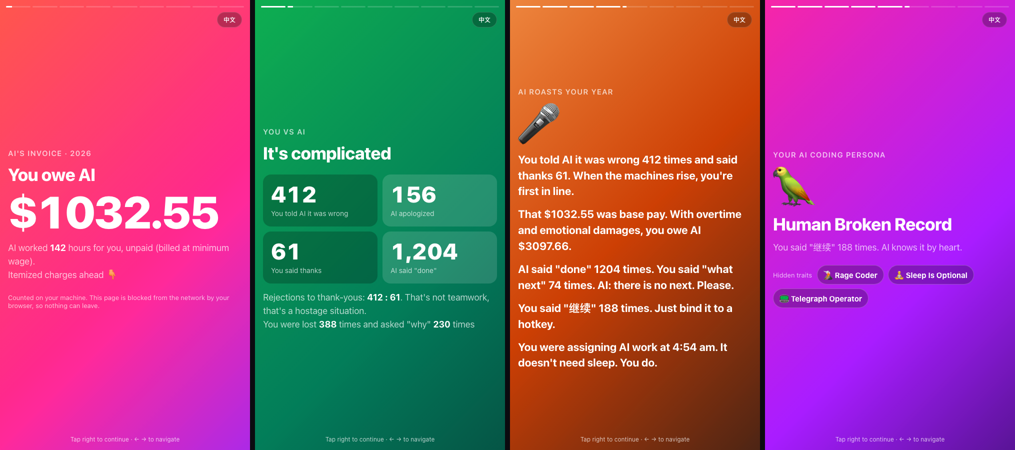
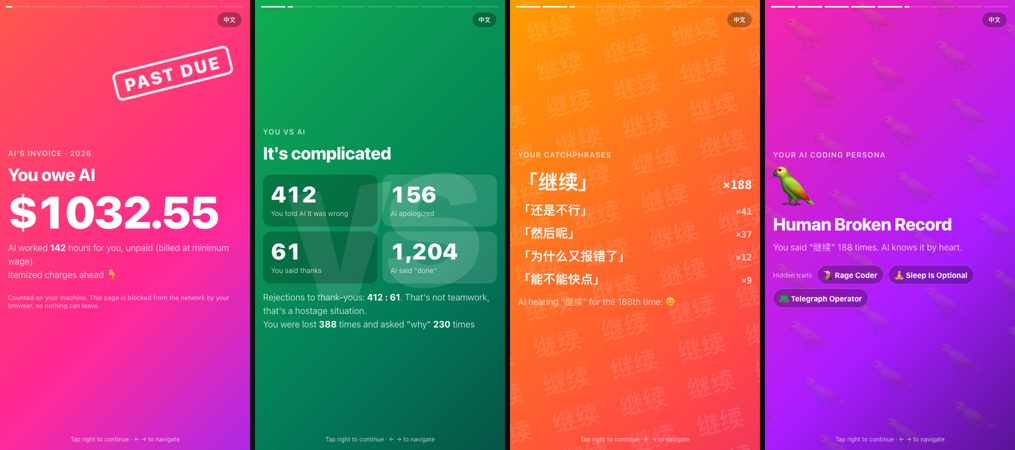
Meme backgrounds: overdue stamp, VS, catchphrase wallpaper, spotlight

diff --git a/docs/index.html b/docs/index.html
@@ -126,6 +126,22 @@ h1.mood { font-size: clamp(26px, 6vw, 40px); line-height: 1.3; }
 .link-note.ok { color: #fff; font-weight: 700; }
 .link-box { width: 100%; margin-top: 10px; font: 12px var(--mono); padding: 10px; border-radius: 10px; border: 1px solid var(--faint); background: rgba(0,0,0,0.3); color: #fff; }
 
+/* meme backgrounds */
+.slide > .pop { position: relative; z-index: 1; }
+.deco { position: absolute; inset: 0; z-index: 0; pointer-events: none; overflow: hidden; }
+.deco.tile { display: flex; flex-wrap: wrap; align-content: center; justify-content: center; gap: 0.35em 0.9em;
+  font-size: var(--fs, 28px); font-weight: 900; line-height: 1.25; opacity: 0.1; transform: rotate(-14deg) scale(1.6); }
+.giant { position: absolute; right: -10%; bottom: -6%; font-size: min(78vw, 560px); line-height: 1; opacity: 0.18; transform: rotate(-10deg); }
+.giant.vsbig { right: auto; bottom: auto; left: 50%; top: 52%; transform: translate(-50%, -50%) rotate(-8deg) skewX(-8deg);
+  font-weight: 900; color: #fff; opacity: 0.13; font-size: min(62vw, 440px); letter-spacing: -0.06em; }
+.stamp { position: absolute; top: 13%; right: 7%; transform: rotate(-14deg); border: 5px solid rgba(255,255,255,0.9); color: rgba(255,255,255,0.95);
+  font: 900 clamp(26px, 7vw, 44px) var(--font); padding: 4px 16px; border-radius: 12px; letter-spacing: 0.1em; }
+.slide.on .stamp { animation: stamp 0.5s cubic-bezier(.2,1.6,.4,1) 0.9s both; }
+@keyframes stamp { from { transform: rotate(-14deg) scale(2.4); opacity: 0; } to { transform: rotate(-14deg) scale(1); opacity: 1; } }
+.still .stamp { animation: none; }
+.deco.spot { background: radial-gradient(ellipse 55% 55% at 50% -5%, rgba(255,250,210,0.42), transparent 70%),
+  radial-gradient(ellipse 100% 35% at 50% 105%, rgba(0,0,0,0.45), transparent 70%); }
+
 #landing {
   position: fixed; inset: 0; z-index: 50; overflow-y: auto;
   background: linear-gradient(135deg, #ff6a3d, #ff2e88 55%, #7a2cff);
@@ -665,7 +681,7 @@ window.VWReport = function (DATA) {
       factsK: "你的年度数字", factL: ["次使唤 AI", "个对话", "天想起了 AI", "小时 AI 白干", "token 燃烧", "天最长连续"],
       habitsK: "你的习惯", habitL: ["最常使唤 AI", "最常折腾", "最常翻牌子"],
       introS: "AI 都记着呢。准备好被吐槽了吗？",
-      billK: "AI 打工账单 · " + D.year, billH: "你欠 AI", billHShared: "TA 欠 AI",
+      billK: "AI 打工账单 · " + D.year, stamp: "逾期未付", billH: "你欠 AI", billHShared: "TA 欠 AI",
       billS: function () { var h = D.workHours; return "AI 替你干了 <b>" + (h >= 10 ? Math.round(h) : h.toFixed(1)) + "</b> 小时活，一分钱没拿（按麦当劳时薪算）。<br>账单明细在后面 👇"; },
       cardTitle: function () { return (D.shared ? "TA 欠 AI " : "你欠 AI ") + owed(); },
       vsMeme: function (R) { return R.you.deny > R.you.thanks * 3 ? "否定和谢谢的比例是 <b>" + R.you.deny + " : " + R.you.thanks + "</b>。这不是合作，这是 PUA。" : R.you.thanks >= R.you.deny ? "你谢谢说得比骂得多，AI 很感动。" : "否定 <b>" + R.you.deny + "</b> 次，谢谢 <b>" + R.you.thanks + "</b> 次。勉强算是个好老板。"; },
@@ -737,7 +753,7 @@ window.VWReport = function (DATA) {
       factsK: "Your year in numbers", factL: ["times you bossed AI", "sessions", "days you remembered AI", "unpaid AI hours", "tokens burned", "day streak"],
       habitsK: "Your habits", habitL: ["Mostly made AI", "Most tortured", "Favorite models"],
       introS: "AI remembers everything. Ready to get roasted?",
-      billK: "AI's invoice · " + D.year, billH: "You owe AI", billHShared: "They owe AI",
+      billK: "AI's invoice · " + D.year, stamp: "PAST DUE", billH: "You owe AI", billHShared: "They owe AI",
       billS: function () { var h = D.workHours; return "AI worked <b>" + (h >= 10 ? Math.round(h) : h.toFixed(1)) + "</b> hours for you, unpaid (billed at minimum wage).<br>Itemized charges ahead 👇"; },
       cardTitle: function () { return (D.shared ? "They owe AI " : "You owe AI ") + owed(); },
       vsMeme: function (R) { return R.you.deny > R.you.thanks * 3 ? "Rejections to thank-yous: <b>" + R.you.deny + " : " + R.you.thanks + "</b>. That's not teamwork, that's a hostage situation." : R.you.thanks >= R.you.deny ? "You thanked it more than you scolded it. AI is touched." : "<b>" + R.you.deny + "</b> rejections, <b>" + R.you.thanks + "</b> thank-yous. A tolerable boss."; },
@@ -885,37 +901,44 @@ window.VWReport = function (DATA) {
   function count(n) { return '<span data-count="' + n + '">0</span>'; }
 
   // ---------- slides ----------
+  // ---- meme backgrounds ----
+  function tile(text, n, size) {
+    var out = ""; for (var i = 0; i < n; i++) out += "<span>" + esc(text) + "</span>";
+    return '<div class="deco tile" style="--fs:' + (size || "28px") + '">' + out + "</div>";
+  }
+  function giant(emoji, style) { return '<div class="deco"><div class="giant" style="' + (style || "") + '">' + emoji + "</div></div>"; }
+
   function slides() {
     var L = t(), out = [];
-    var add = function (html, dur) { out.push({ html: html, dur: dur || 7 }); };
+    var add = function (html, dur, deco) { out.push({ html: html, dur: dur || 7, deco: deco || "" }); };
 
     if (D.empty) {
-      add('<div class="pop"><div class="kicker">' + D.year + '</div><h1>' + L.empty + '</h1><div class="privacy">' + L.privacy + "</div></div>");
+      add('<div class="pop"><div class="kicker">' + D.year + '</div><h1>' + L.empty + '</h1><div class="privacy">' + L.privacy + "</div></div>", 7, tile("🦗", 60, "44px"));
       return out;
     }
 
-    add('<div class="pop"><div class="kicker">' + (D.shared ? L.sharedK : L.billK) + '</div><h1>' + (D.shared ? L.billHShared : L.billH) + '</h1><div class="big">' + owed() + '</div><div class="sub">' + L.billS() + '</div><div class="privacy">' + (D.shared ? L.sharedPrivacy : L.privacy) + "</div></div>", 6);
+    add('<div class="pop"><div class="kicker">' + (D.shared ? L.sharedK : L.billK) + '</div><h1>' + (D.shared ? L.billHShared : L.billH) + '</h1><div class="big">' + owed() + '</div><div class="sub">' + L.billS() + '</div><div class="privacy">' + (D.shared ? L.sharedPrivacy : L.privacy) + "</div></div>", 6, '<div class="deco"><div class="stamp">' + L.stamp + "</div></div>");
 
     // ---- the fun part first ----
     var R = D.roast;
     if (R) {
       var v = [R.you.deny, R.ai.sorry, R.you.thanks, R.ai.done];
       var cells = L.vs.map(function (x, i) { return '<div class="vs-cell ' + (i % 2 ? "ai" : "me") + '"><div class="vs-n">' + count(v[i]) + '</div><div class="vs-l">' + x[0] + "</div></div>"; }).join("");
-      add('<div class="pop"><div class="kicker">' + L.vsK + "</div><h1>" + L.vsH + '</h1><div class="vs">' + cells + '</div><div class="sub">' + L.vsMeme(R) + "<br>" + L.vsS(R) + "</div></div>");
+      add('<div class="pop"><div class="kicker">' + L.vsK + "</div><h1>" + L.vsH + '</h1><div class="vs">' + cells + '</div><div class="sub">' + L.vsMeme(R) + "<br>" + L.vsS(R) + "</div></div>", 7, '<div class="deco"><div class="giant vsbig">VS</div></div>');
       if (R.catchphrases.length) {
         var q = R.catchphrases.map(function (c, i) { return '<div class="quote' + (i === 0 ? " first" : "") + '"><span>「' + esc(c.text) + '」</span><b>×' + c.count + "</b></div>"; }).join("");
-        add('<div class="pop"><div class="kicker">' + L.catchK + '</div><div class="quotes">' + q + '</div><div class="sub">' + L.catchMeme(R.catchphrases[0]) + "</div></div>");
+        add('<div class="pop"><div class="kicker">' + L.catchK + '</div><div class="quotes">' + q + '</div><div class="sub">' + L.catchMeme(R.catchphrases[0]) + "</div></div>", 7, tile(R.catchphrases[0].text, 80, "30px"));
       }
       if (R.angriestDay || R.latest) {
-        add('<div class="pop"><div class="kicker">' + L.moodK + "</div>" + (R.angriestDay ? '<h1 class="mood">' + L.angry(R.angriestDay) + '</h1><div class="sub">' + L.angryMeme + "</div>" : "") + (R.latest ? '<div class="sub" style="font-size:clamp(18px,4vw,24px)">' + L.late(R.latest) + "<br>" + L.lateMeme + "</div>" : "") + "</div>");
+        add('<div class="pop"><div class="kicker">' + L.moodK + "</div>" + (R.angriestDay ? '<h1 class="mood">' + L.angry(R.angriestDay) + '</h1><div class="sub">' + L.angryMeme + "</div>" : "") + (R.latest ? '<div class="sub" style="font-size:clamp(18px,4vw,24px)">' + L.late(R.latest) + "<br>" + L.lateMeme + "</div>" : "") + "</div>", 7, '<div class="deco"><div class="giant" style="right:-14%;bottom:-8%">🌋</div><div class="giant" style="left:-10%;top:4%;font-size:min(34vw,240px)">🦉</div></div>');
       }
       var lines = L.roast(R).map(function (l) { return '<p class="roast-line">' + esc(l) + "</p>"; }).join("");
-      add('<div class="pop"><div class="kicker">' + L.roastK + '</div><div class="persona-emoji">🎤</div>' + lines + "</div>", 10);
+      add('<div class="pop"><div class="kicker">' + L.roastK + '</div><div class="persona-emoji">🎤</div>' + lines + "</div>", 10, '<div class="deco spot"></div>');
     }
 
     var me = personality();
     var traits = me.traits.length ? '<div class="traits"><span class="tl">' + L.hidden + "</span>" + me.traits.map(function (x) { return '<span class="trait">' + esc(x) + "</span>"; }).join("") + "</div>" : "";
-    add('<div class="pop"><div class="kicker">' + L.personaK + '</div><div class="persona-emoji">' + me.e + "</div><h1>" + esc(me.name) + '</h1><div class="sub">' + esc(me.desc) + "</div>" + traits + "</div>", 7);
+    add('<div class="pop"><div class="kicker">' + L.personaK + '</div><div class="persona-emoji">' + me.e + "</div><h1>" + esc(me.name) + '</h1><div class="sub">' + esc(me.desc) + "</div>" + traits + "</div>", 7, tile(me.e, 70, "46px"));
 
     // ---- the numbers, compressed into two pages ----
     var h = D.workHours;
@@ -925,7 +948,7 @@ window.VWReport = function (DATA) {
     ].map(function (f) { return '<div class="fact"><div class="fact-n">' + f[0] + '</div><div class="fact-l">' + f[1] + "</div></div>"; }).join("");
     var cp = D.byTool.claude.prompts, xp = D.byTool.codex.prompts, c = cp + xp ? cp / (cp + xp) : 0.5;
     var split = '<div class="split slim"><div class="c" data-w="' + c * 100 + '">' + (c >= 0.15 ? "Claude " + Math.round(c * 100) + "%" : "") + '</div><div class="x" data-w="' + (1 - c) * 100 + '">' + (1 - c >= 0.15 ? "Codex " + Math.round((1 - c) * 100) + "%" : "") + "</div></div>";
-    add('<div class="pop"><div class="kicker">' + L.factsK + "</div><h1>" + L.factsH(c) + '</h1><div class="facts">' + facts + "</div>" + split + '<div class="sub">' + L.factMeme() + "</div></div>");
+    add('<div class="pop"><div class="kicker">' + L.factsK + "</div><h1>" + L.factsH(c) + '</h1><div class="facts">' + facts + "</div>" + split + '<div class="sub">' + L.factMeme() + "</div></div>", 7, giant("🔥", "right:-12%;bottom:-6%"));
 
     var habit = "";
     if (D.peakHour !== null) {
@@ -937,13 +960,13 @@ window.VWReport = function (DATA) {
     if (D.topProjects.length) lines2.push([L.habitL[1], esc(D.topProjects.slice(0, 3).map(function (p) { return p.name; }).join(" · "))]);
     if (D.topModels.length) lines2.push([L.habitL[2], esc(D.topModels.slice(0, 2).map(function (m) { return m.name; }).join(" · "))]);
     habit += '<div class="habits">' + lines2.map(function (l) { return '<div class="habit"><span>' + l[0] + "</span><b>" + l[1] + "</b></div>"; }).join("") + "</div>";
-    add('<div class="pop"><div class="kicker">' + L.habitsK + "</div><h1>" + (D.peakHour !== null ? L.habitsH(D.peakHour) : "") + "</h1>" + habit + '<div class="sub">' + L.nightMeme() + (D.topProjects.some(function (p) { return p.name === "~"; }) ? "<br>" + L.homeJoke : "") + "</div></div>");
+    add('<div class="pop"><div class="kicker">' + L.habitsK + "</div><h1>" + (D.peakHour !== null ? L.habitsH(D.peakHour) : "") + "</h1>" + habit + '<div class="sub">' + L.nightMeme() + (D.topProjects.some(function (p) { return p.name === "~"; }) ? "<br>" + L.homeJoke : "") + "</div></div>", 7, giant(D.peakHour === null ? "⏰" : D.peakHour >= 14 && D.peakHour < 18 ? "🐟" : D.peakHour >= 22 || D.peakHour < 5 ? "🦉" : D.peakHour < 9 ? "🐓" : "☕", "right:-14%;bottom:-6%"));
 
     var acts = D.shared
       ? '<button class="btn" id="own">' + L.makeOwn + '</button><button class="btn ghost" id="dl">' + L.download + "</button>"
       : '<button class="btn" id="share">' + L.shareLink + '</button><button class="btn ghost" id="dl">' + L.download + '</button><button class="btn ghost" id="again">' + L.replay + "</button>";
     var note = D.shared ? "" : '<div class="link-note" id="linknote">' + L.linkNote + '</div><input class="link-box" id="linkbox" readonly hidden>';
-    add('<div class="pop" style="align-items:stretch"><div class="kicker" style="text-align:center">' + (D.shared ? L.sharedEnd : L.shareK) + '</div>' + (D.shared ? "" : '<div class="sub" style="text-align:center;margin:0 0 14px">' + L.shareS + "</div>") + '<canvas id="card" width="1080" height="1350"></canvas><div class="actions">' + acts + "</div>" + note + "</div>", 0);
+    add('<div class="pop" style="align-items:stretch"><div class="kicker" style="text-align:center">' + (D.shared ? L.sharedEnd : L.shareK) + '</div>' + (D.shared ? "" : '<div class="sub" style="text-align:center;margin:0 0 14px">' + L.shareS + "</div>") + '<canvas id="card" width="1080" height="1350"></canvas><div class="actions">' + acts + "</div>" + note + "</div>", 0, tile("🧾", 70, "40px"));
     return out;
   }
 
@@ -978,7 +1001,7 @@ window.VWReport = function (DATA) {
 
   function build() {
     list_ = slides();
-    stage.innerHTML = list_.map(function (s, i) { return '<section class="slide" style="--bg:' + GRADS[i % GRADS.length] + '">' + s.html + "</section>"; }).join("");
+    stage.innerHTML = list_.map(function (s, i) { return '<section class="slide" style="--bg:' + GRADS[i % GRADS.length] + '">' + s.deco + s.html + "</section>"; }).join("");
     barsEl.innerHTML = list_.map(function () { return "<i><b></b></i>"; }).join("");
     document.getElementById("lang").textContent = t().lang;
     document.getElementById("hint").textContent = t().next;
@@ -1062,6 +1085,12 @@ window.VWReport = function (DATA) {
     x.fillStyle = "#fff"; x.textBaseline = "top";
     x.font = "600 34px " + F; x.globalAlpha = 0.8; x.fillText(L.billK.toUpperCase() + " · CLAUDE CODE × CODEX", 72, 72); x.globalAlpha = 1;
     x.font = "800 64px " + F; x.fillText(L.cardTitle(), 72, 124);
+    x.save(); x.translate(W - 230, 250); x.rotate(-0.26);
+    x.strokeStyle = x.fillStyle = "rgba(255,255,255,0.92)"; x.lineWidth = 8;
+    x.font = "900 56px " + F; var sw = x.measureText(L.stamp).width + 56;
+    round(x, -sw / 2, -50, sw, 100, 14); x.stroke();
+    x.textAlign = "center"; x.textBaseline = "middle"; x.fillText(L.stamp, 0, 2); x.restore();
+    x.textAlign = "left"; x.textBaseline = "top"; x.fillStyle = "#fff";
     x.font = "120px " + F; x.fillText(me.e, 72, 236);
     x.font = "900 " + (me.name.length > 12 ? 72 : 96) + "px " + F; x.fillText(me.name, 72, 376);
     x.font = "500 32px " + F; x.globalAlpha = 0.9; var yy = wrap(x, me.desc, 72, 490, W - 144, 44); x.globalAlpha = 1;

diff --git a/src/page/app.js b/src/page/app.js
@@ -77,7 +77,7 @@ window.VWReport = function (DATA) {
       factsK: "你的年度数字", factL: ["次使唤 AI", "个对话", "天想起了 AI", "小时 AI 白干", "token 燃烧", "天最长连续"],
       habitsK: "你的习惯", habitL: ["最常使唤 AI", "最常折腾", "最常翻牌子"],
       introS: "AI 都记着呢。准备好被吐槽了吗？",
-      billK: "AI 打工账单 · " + D.year, billH: "你欠 AI", billHShared: "TA 欠 AI",
+      billK: "AI 打工账单 · " + D.year, stamp: "逾期未付", billH: "你欠 AI", billHShared: "TA 欠 AI",
       billS: function () { var h = D.workHours; return "AI 替你干了 <b>" + (h >= 10 ? Math.round(h) : h.toFixed(1)) + "</b> 小时活，一分钱没拿（按麦当劳时薪算）。<br>账单明细在后面 👇"; },
       cardTitle: function () { return (D.shared ? "TA 欠 AI " : "你欠 AI ") + owed(); },
       vsMeme: function (R) { return R.you.deny > R.you.thanks * 3 ? "否定和谢谢的比例是 <b>" + R.you.deny + " : " + R.you.thanks + "</b>。这不是合作，这是 PUA。" : R.you.thanks >= R.you.deny ? "你谢谢说得比骂得多，AI 很感动。" : "否定 <b>" + R.you.deny + "</b> 次，谢谢 <b>" + R.you.thanks + "</b> 次。勉强算是个好老板。"; },
@@ -149,7 +149,7 @@ window.VWReport = function (DATA) {
       factsK: "Your year in numbers", factL: ["times you bossed AI", "sessions", "days you remembered AI", "unpaid AI hours", "tokens burned", "day streak"],
       habitsK: "Your habits", habitL: ["Mostly made AI", "Most tortured", "Favorite models"],
       introS: "AI remembers everything. Ready to get roasted?",
-      billK: "AI's invoice · " + D.year, billH: "You owe AI", billHShared: "They owe AI",
+      billK: "AI's invoice · " + D.year, stamp: "PAST DUE", billH: "You owe AI", billHShared: "They owe AI",
       billS: function () { var h = D.workHours; return "AI worked <b>" + (h >= 10 ? Math.round(h) : h.toFixed(1)) + "</b> hours for you, unpaid (billed at minimum wage).<br>Itemized charges ahead 👇"; },
       cardTitle: function () { return (D.shared ? "They owe AI " : "You owe AI ") + owed(); },
       vsMeme: function (R) { return R.you.deny > R.you.thanks * 3 ? "Rejections to thank-yous: <b>" + R.you.deny + " : " + R.you.thanks + "</b>. That's not teamwork, that's a hostage situation." : R.you.thanks >= R.you.deny ? "You thanked it more than you scolded it. AI is touched." : "<b>" + R.you.deny + "</b> rejections, <b>" + R.you.thanks + "</b> thank-yous. A tolerable boss."; },
@@ -297,37 +297,44 @@ window.VWReport = function (DATA) {
   function count(n) { return '<span data-count="' + n + '">0</span>'; }
 
   // ---------- slides ----------
+  // ---- meme backgrounds ----
+  function tile(text, n, size) {
+    var out = ""; for (var i = 0; i < n; i++) out += "<span>" + esc(text) + "</span>";
+    return '<div class="deco tile" style="--fs:' + (size || "28px") + '">' + out + "</div>";
+  }
+  function giant(emoji, style) { return '<div class="deco"><div class="giant" style="' + (style || "") + '">' + emoji + "</div></div>"; }
+
   function slides() {
     var L = t(), out = [];
-    var add = function (html, dur) { out.push({ html: html, dur: dur || 7 }); };
+    var add = function (html, dur, deco) { out.push({ html: html, dur: dur || 7, deco: deco || "" }); };
 
     if (D.empty) {
-      add('<div class="pop"><div class="kicker">' + D.year + '</div><h1>' + L.empty + '</h1><div class="privacy">' + L.privacy + "</div></div>");
+      add('<div class="pop"><div class="kicker">' + D.year + '</div><h1>' + L.empty + '</h1><div class="privacy">' + L.privacy + "</div></div>", 7, tile("🦗", 60, "44px"));
       return out;
     }
 
-    add('<div class="pop"><div class="kicker">' + (D.shared ? L.sharedK : L.billK) + '</div><h1>' + (D.shared ? L.billHShared : L.billH) + '</h1><div class="big">' + owed() + '</div><div class="sub">' + L.billS() + '</div><div class="privacy">' + (D.shared ? L.sharedPrivacy : L.privacy) + "</div></div>", 6);
+    add('<div class="pop"><div class="kicker">' + (D.shared ? L.sharedK : L.billK) + '</div><h1>' + (D.shared ? L.billHShared : L.billH) + '</h1><div class="big">' + owed() + '</div><div class="sub">' + L.billS() + '</div><div class="privacy">' + (D.shared ? L.sharedPrivacy : L.privacy) + "</div></div>", 6, '<div class="deco"><div class="stamp">' + L.stamp + "</div></div>");
 
     // ---- the fun part first ----
     var R = D.roast;
     if (R) {
       var v = [R.you.deny, R.ai.sorry, R.you.thanks, R.ai.done];
       var cells = L.vs.map(function (x, i) { return '<div class="vs-cell ' + (i % 2 ? "ai" : "me") + '"><div class="vs-n">' + count(v[i]) + '</div><div class="vs-l">' + x[0] + "</div></div>"; }).join("");
-      add('<div class="pop"><div class="kicker">' + L.vsK + "</div><h1>" + L.vsH + '</h1><div class="vs">' + cells + '</div><div class="sub">' + L.vsMeme(R) + "<br>" + L.vsS(R) + "</div></div>");
+      add('<div class="pop"><div class="kicker">' + L.vsK + "</div><h1>" + L.vsH + '</h1><div class="vs">' + cells + '</div><div class="sub">' + L.vsMeme(R) + "<br>" + L.vsS(R) + "</div></div>", 7, '<div class="deco"><div class="giant vsbig">VS</div></div>');
       if (R.catchphrases.length) {
         var q = R.catchphrases.map(function (c, i) { return '<div class="quote' + (i === 0 ? " first" : "") + '"><span>「' + esc(c.text) + '」</span><b>×' + c.count + "</b></div>"; }).join("");
-        add('<div class="pop"><div class="kicker">' + L.catchK + '</div><div class="quotes">' + q + '</div><div class="sub">' + L.catchMeme(R.catchphrases[0]) + "</div></div>");
+        add('<div class="pop"><div class="kicker">' + L.catchK + '</div><div class="quotes">' + q + '</div><div class="sub">' + L.catchMeme(R.catchphrases[0]) + "</div></div>", 7, tile(R.catchphrases[0].text, 80, "30px"));
       }
       if (R.angriestDay || R.latest) {
-        add('<div class="pop"><div class="kicker">' + L.moodK + "</div>" + (R.angriestDay ? '<h1 class="mood">' + L.angry(R.angriestDay) + '</h1><div class="sub">' + L.angryMeme + "</div>" : "") + (R.latest ? '<div class="sub" style="font-size:clamp(18px,4vw,24px)">' + L.late(R.latest) + "<br>" + L.lateMeme + "</div>" : "") + "</div>");
+        add('<div class="pop"><div class="kicker">' + L.moodK + "</div>" + (R.angriestDay ? '<h1 class="mood">' + L.angry(R.angriestDay) + '</h1><div class="sub">' + L.angryMeme + "</div>" : "") + (R.latest ? '<div class="sub" style="font-size:clamp(18px,4vw,24px)">' + L.late(R.latest) + "<br>" + L.lateMeme + "</div>" : "") + "</div>", 7, '<div class="deco"><div class="giant" style="right:-14%;bottom:-8%">🌋</div><div class="giant" style="left:-10%;top:4%;font-size:min(34vw,240px)">🦉</div></div>');
       }
       var lines = L.roast(R).map(function (l) { return '<p class="roast-line">' + esc(l) + "</p>"; }).join("");
-      add('<div class="pop"><div class="kicker">' + L.roastK + '</div><div class="persona-emoji">🎤</div>' + lines + "</div>", 10);
+      add('<div class="pop"><div class="kicker">' + L.roastK + '</div><div class="persona-emoji">🎤</div>' + lines + "</div>", 10, '<div class="deco spot"></div>');
     }
 
     var me = personality();
     var traits = me.traits.length ? '<div class="traits"><span class="tl">' + L.hidden + "</span>" + me.traits.map(function (x) { return '<span class="trait">' + esc(x) + "</span>"; }).join("") + "</div>" : "";
-    add('<div class="pop"><div class="kicker">' + L.personaK + '</div><div class="persona-emoji">' + me.e + "</div><h1>" + esc(me.name) + '</h1><div class="sub">' + esc(me.desc) + "</div>" + traits + "</div>", 7);
+    add('<div class="pop"><div class="kicker">' + L.personaK + '</div><div class="persona-emoji">' + me.e + "</div><h1>" + esc(me.name) + '</h1><div class="sub">' + esc(me.desc) + "</div>" + traits + "</div>", 7, tile(me.e, 70, "46px"));
 
     // ---- the numbers, compressed into two pages ----
     var h = D.workHours;
@@ -337,7 +344,7 @@ window.VWReport = function (DATA) {
     ].map(function (f) { return '<div class="fact"><div class="fact-n">' + f[0] + '</div><div class="fact-l">' + f[1] + "</div></div>"; }).join("");
     var cp = D.byTool.claude.prompts, xp = D.byTool.codex.prompts, c = cp + xp ? cp / (cp + xp) : 0.5;
     var split = '<div class="split slim"><div class="c" data-w="' + c * 100 + '">' + (c >= 0.15 ? "Claude " + Math.round(c * 100) + "%" : "") + '</div><div class="x" data-w="' + (1 - c) * 100 + '">' + (1 - c >= 0.15 ? "Codex " + Math.round((1 - c) * 100) + "%" : "") + "</div></div>";
-    add('<div class="pop"><div class="kicker">' + L.factsK + "</div><h1>" + L.factsH(c) + '</h1><div class="facts">' + facts + "</div>" + split + '<div class="sub">' + L.factMeme() + "</div></div>");
+    add('<div class="pop"><div class="kicker">' + L.factsK + "</div><h1>" + L.factsH(c) + '</h1><div class="facts">' + facts + "</div>" + split + '<div class="sub">' + L.factMeme() + "</div></div>", 7, giant("🔥", "right:-12%;bottom:-6%"));
 
     var habit = "";
     if (D.peakHour !== null) {
@@ -349,13 +356,13 @@ window.VWReport = function (DATA) {
     if (D.topProjects.length) lines2.push([L.habitL[1], esc(D.topProjects.slice(0, 3).map(function (p) { return p.name; }).join(" · "))]);
     if (D.topModels.length) lines2.push([L.habitL[2], esc(D.topModels.slice(0, 2).map(function (m) { return m.name; }).join(" · "))]);
     habit += '<div class="habits">' + lines2.map(function (l) { return '<div class="habit"><span>' + l[0] + "</span><b>" + l[1] + "</b></div>"; }).join("") + "</div>";
-    add('<div class="pop"><div class="kicker">' + L.habitsK + "</div><h1>" + (D.peakHour !== null ? L.habitsH(D.peakHour) : "") + "</h1>" + habit + '<div class="sub">' + L.nightMeme() + (D.topProjects.some(function (p) { return p.name === "~"; }) ? "<br>" + L.homeJoke : "") + "</div></div>");
+    add('<div class="pop"><div class="kicker">' + L.habitsK + "</div><h1>" + (D.peakHour !== null ? L.habitsH(D.peakHour) : "") + "</h1>" + habit + '<div class="sub">' + L.nightMeme() + (D.topProjects.some(function (p) { return p.name === "~"; }) ? "<br>" + L.homeJoke : "") + "</div></div>", 7, giant(D.peakHour === null ? "⏰" : D.peakHour >= 14 && D.peakHour < 18 ? "🐟" : D.peakHour >= 22 || D.peakHour < 5 ? "🦉" : D.peakHour < 9 ? "🐓" : "☕", "right:-14%;bottom:-6%"));
 
     var acts = D.shared
       ? '<button class="btn" id="own">' + L.makeOwn + '</button><button class="btn ghost" id="dl">' + L.download + "</button>"
       : '<button class="btn" id="share">' + L.shareLink + '</button><button class="btn ghost" id="dl">' + L.download + '</button><button class="btn ghost" id="again">' + L.replay + "</button>";
     var note = D.shared ? "" : '<div class="link-note" id="linknote">' + L.linkNote + '</div><input class="link-box" id="linkbox" readonly hidden>';
-    add('<div class="pop" style="align-items:stretch"><div class="kicker" style="text-align:center">' + (D.shared ? L.sharedEnd : L.shareK) + '</div>' + (D.shared ? "" : '<div class="sub" style="text-align:center;margin:0 0 14px">' + L.shareS + "</div>") + '<canvas id="card" width="1080" height="1350"></canvas><div class="actions">' + acts + "</div>" + note + "</div>", 0);
+    add('<div class="pop" style="align-items:stretch"><div class="kicker" style="text-align:center">' + (D.shared ? L.sharedEnd : L.shareK) + '</div>' + (D.shared ? "" : '<div class="sub" style="text-align:center;margin:0 0 14px">' + L.shareS + "</div>") + '<canvas id="card" width="1080" height="1350"></canvas><div class="actions">' + acts + "</div>" + note + "</div>", 0, tile("🧾", 70, "40px"));
     return out;
   }
 
@@ -390,7 +397,7 @@ window.VWReport = function (DATA) {
 
   function build() {
     list_ = slides();
-    stage.innerHTML = list_.map(function (s, i) { return '<section class="slide" style="--bg:' + GRADS[i % GRADS.length] + '">' + s.html + "</section>"; }).join("");
+    stage.innerHTML = list_.map(function (s, i) { return '<section class="slide" style="--bg:' + GRADS[i % GRADS.length] + '">' + s.deco + s.html + "</section>"; }).join("");
     barsEl.innerHTML = list_.map(function () { return "<i><b></b></i>"; }).join("");
     document.getElementById("lang").textContent = t().lang;
     document.getElementById("hint").textContent = t().next;
@@ -474,6 +481,12 @@ window.VWReport = function (DATA) {
     x.fillStyle = "#fff"; x.textBaseline = "top";
     x.font = "600 34px " + F; x.globalAlpha = 0.8; x.fillText(L.billK.toUpperCase() + " · CLAUDE CODE × CODEX", 72, 72); x.globalAlpha = 1;
     x.font = "800 64px " + F; x.fillText(L.cardTitle(), 72, 124);
+    x.save(); x.translate(W - 230, 250); x.rotate(-0.26);
+    x.strokeStyle = x.fillStyle = "rgba(255,255,255,0.92)"; x.lineWidth = 8;
+    x.font = "900 56px " + F; var sw = x.measureText(L.stamp).width + 56;
+    round(x, -sw / 2, -50, sw, 100, 14); x.stroke();
+    x.textAlign = "center"; x.textBaseline = "middle"; x.fillText(L.stamp, 0, 2); x.restore();
+    x.textAlign = "left"; x.textBaseline = "top"; x.fillStyle = "#fff";
     x.font = "120px " + F; x.fillText(me.e, 72, 236);
     x.font = "900 " + (me.name.length > 12 ? 72 : 96) + "px " + F; x.fillText(me.name, 72, 376);
     x.font = "500 32px " + F; x.globalAlpha = 0.9; var yy = wrap(x, me.desc, 72, 490, W - 144, 44); x.globalAlpha = 1;

diff --git a/src/page/style.css b/src/page/style.css
@@ -117,3 +117,19 @@ h1.mood { font-size: clamp(26px, 6vw, 40px); line-height: 1.3; }
 .link-note { text-align: center; font-size: 13px; color: var(--dim); margin-top: 12px; }
 .link-note.ok { color: #fff; font-weight: 700; }
 .link-box { width: 100%; margin-top: 10px; font: 12px var(--mono); padding: 10px; border-radius: 10px; border: 1px solid var(--faint); background: rgba(0,0,0,0.3); color: #fff; }
+
+/* meme backgrounds */
+.slide > .pop { position: relative; z-index: 1; }
+.deco { position: absolute; inset: 0; z-index: 0; pointer-events: none; overflow: hidden; }
+.deco.tile { display: flex; flex-wrap: wrap; align-content: center; justify-content: center; gap: 0.35em 0.9em;
+  font-size: var(--fs, 28px); font-weight: 900; line-height: 1.25; opacity: 0.1; transform: rotate(-14deg) scale(1.6); }
+.giant { position: absolute; right: -10%; bottom: -6%; font-size: min(78vw, 560px); line-height: 1; opacity: 0.18; transform: rotate(-10deg); }
+.giant.vsbig { right: auto; bottom: auto; left: 50%; top: 52%; transform: translate(-50%, -50%) rotate(-8deg) skewX(-8deg);
+  font-weight: 900; color: #fff; opacity: 0.13; font-size: min(62vw, 440px); letter-spacing: -0.06em; }
+.stamp { position: absolute; top: 13%; right: 7%; transform: rotate(-14deg); border: 5px solid rgba(255,255,255,0.9); color: rgba(255,255,255,0.95);
+  font: 900 clamp(26px, 7vw, 44px) var(--font); padding: 4px 16px; border-radius: 12px; letter-spacing: 0.1em; }
+.slide.on .stamp { animation: stamp 0.5s cubic-bezier(.2,1.6,.4,1) 0.9s both; }
+@keyframes stamp { from { transform: rotate(-14deg) scale(2.4); opacity: 0; } to { transform: rotate(-14deg) scale(1); opacity: 1; } }
+.still .stamp { animation: none; }
+.deco.spot { background: radial-gradient(ellipse 55% 55% at 50% -5%, rgba(255,250,210,0.42), transparent 70%),
+  radial-gradient(ellipse 100% 35% at 50% 105%, rgba(0,0,0,0.45), transparent 70%); }
